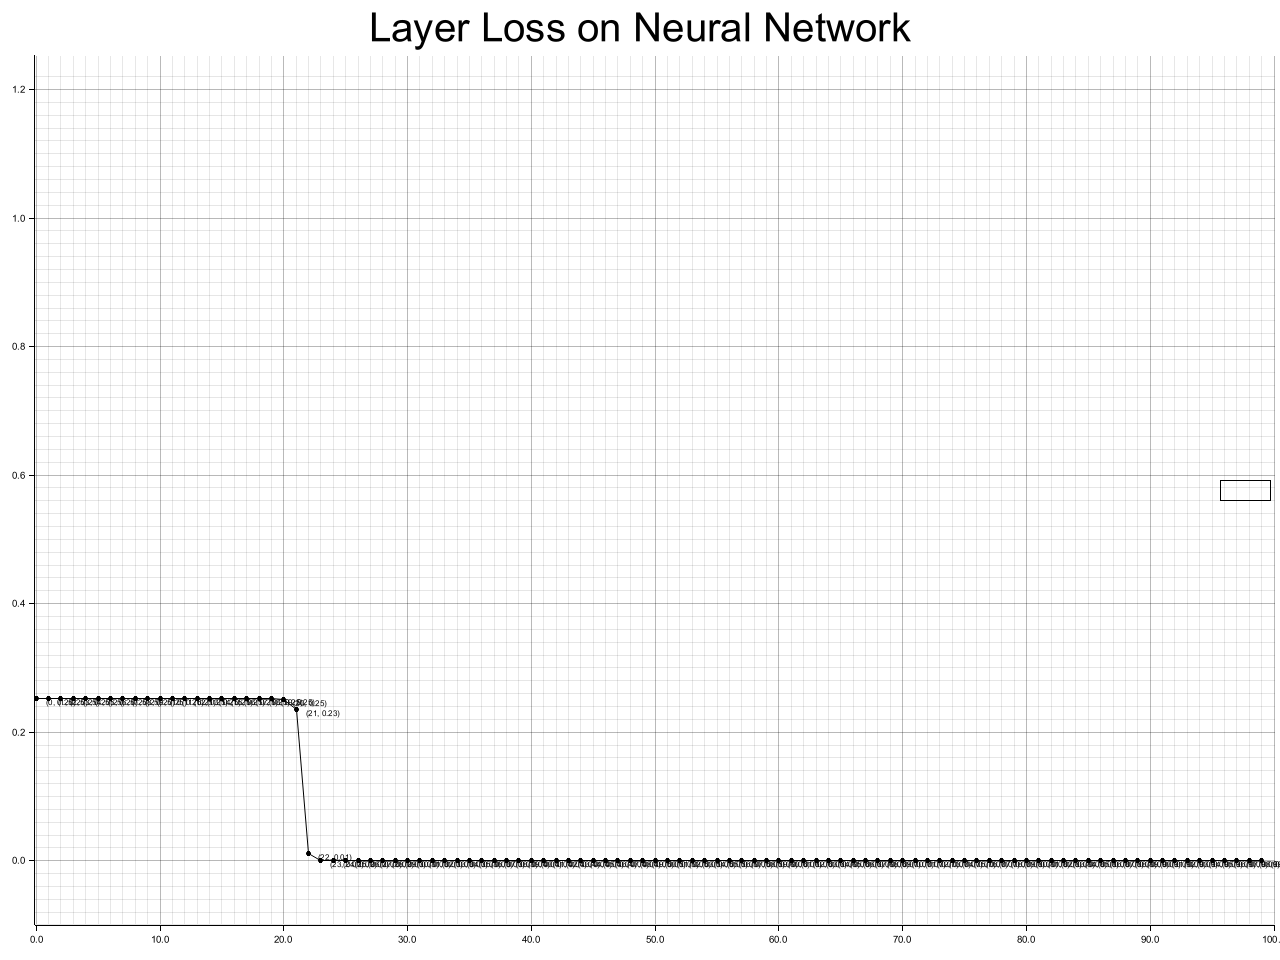
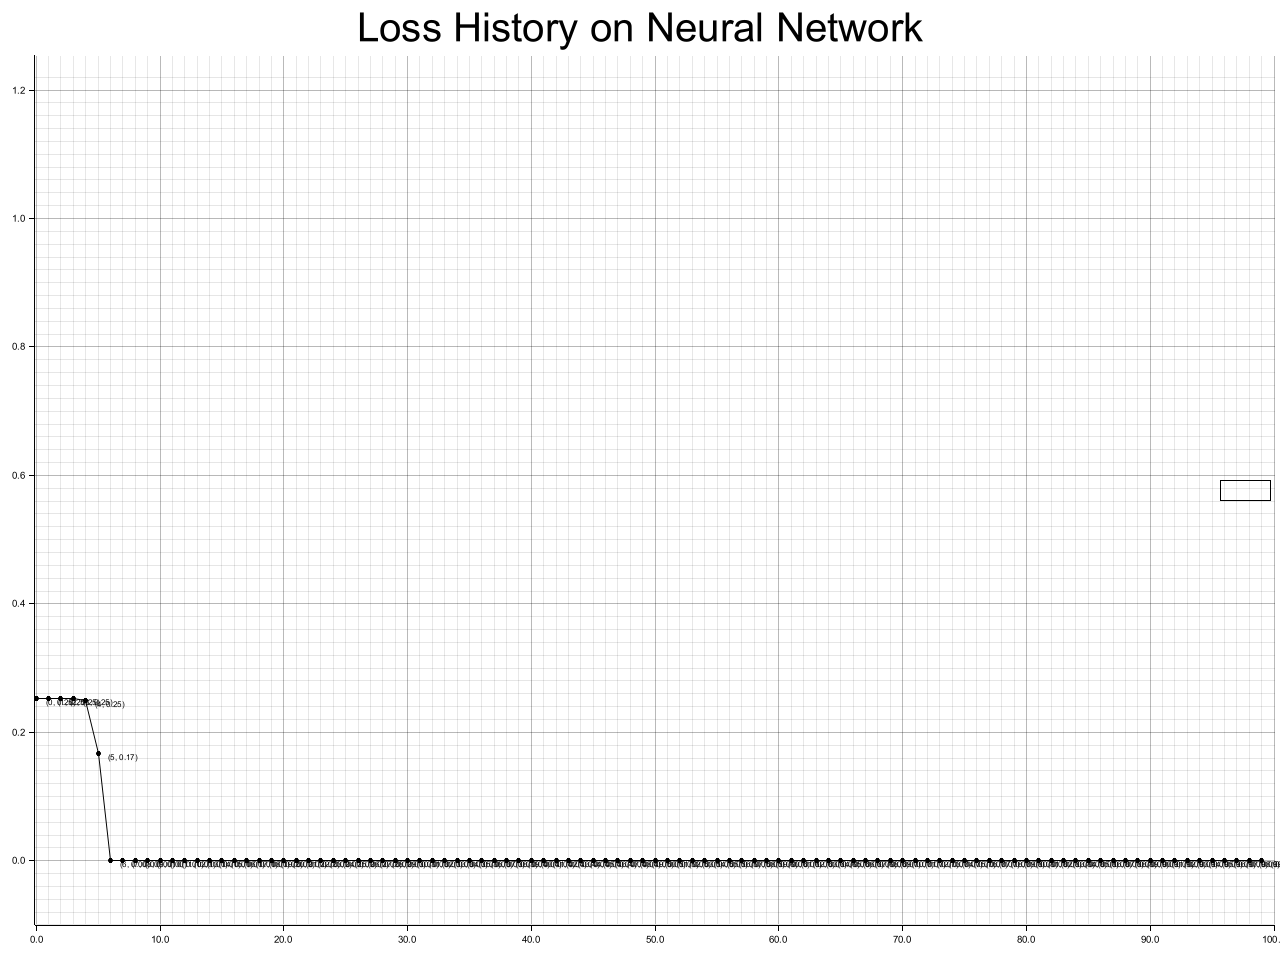
fixed batch ordering

diff --git a/src/network/network.rs b/src/network/network.rs
@@ -169,23 +169,21 @@ impl Network{
     ///* `epochs` - How many epochs you want your model training for
     ///
     pub fn fit(&mut self, train_in: Vec<Vec<f32>>, train_out: Vec<Vec<f32>>, epochs: usize){
-        //Use batch size to split up data into sub-batches :)
-
         let mut input_batch: Box<dyn Input>;
         let mut output_batch: Box<dyn Input>;
 
-
         self.loss_train = vec![];
-        let mut loss: f32 = 0.0;
+        let mut loss: f32;
         for _ in 0..epochs {
             loss = 0.0;
-            for _ in 0..ITERATIONS_PER_EPOCH{
-                for i in 0..(train_in.len() / self.batch_size) + 1{
+            for i in 0..(train_in.len() / self.batch_size) + 1{
 
-                    input_batch = self.get_batch(&train_in, i);
-                    let inputs = input_batch.to_param_2d();
-                    output_batch = self.get_batch(&train_out, i);
-                    let outputs = output_batch.to_param_2d();
+                input_batch = self.get_batch(&train_in, i);
+                let inputs = input_batch.to_param_2d();
+                output_batch = self.get_batch(&train_out, i);
+                let outputs = output_batch.to_param_2d();
+
+                for _ in 0..ITERATIONS_PER_EPOCH{
                     for input in 0..inputs.len(){
                         let mut loss_on_input: f32 = 0.0;
                         let inp: Box<dyn Input> = Box::new(inputs[input].clone());
